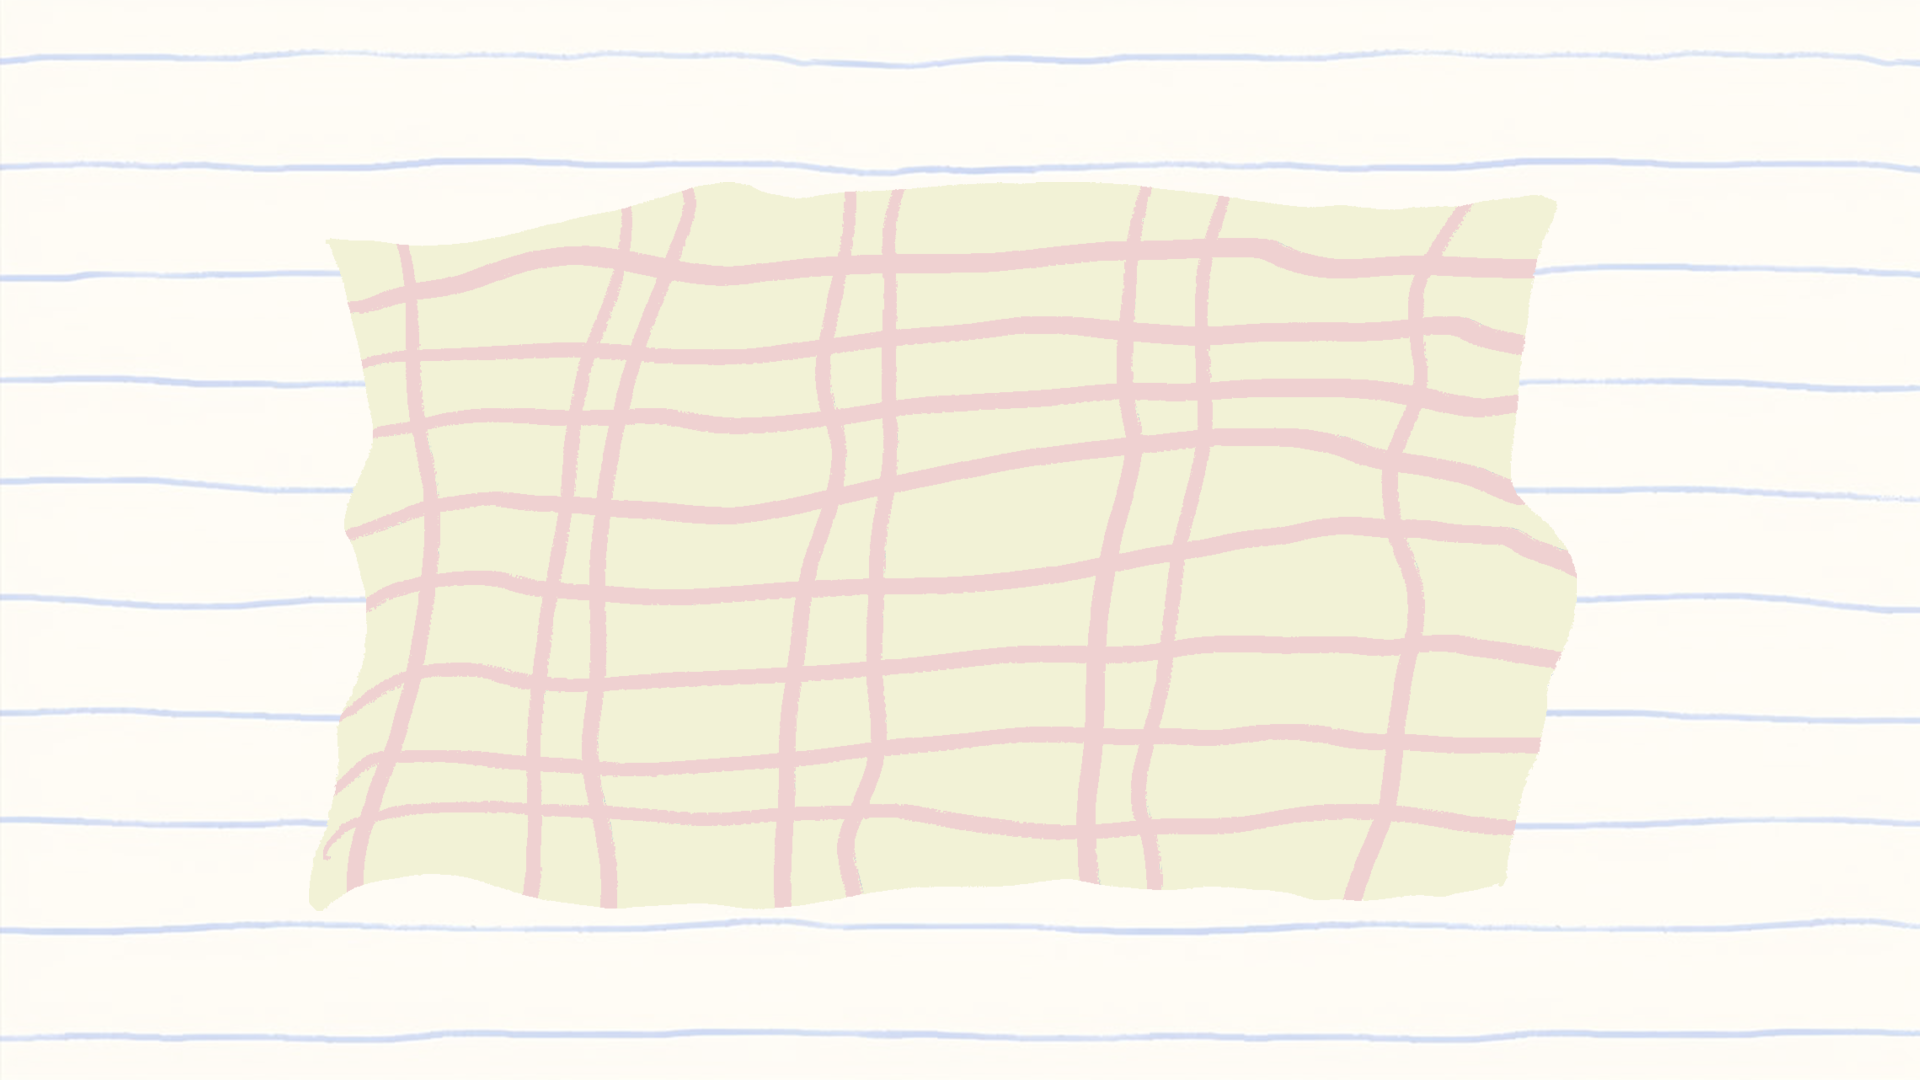
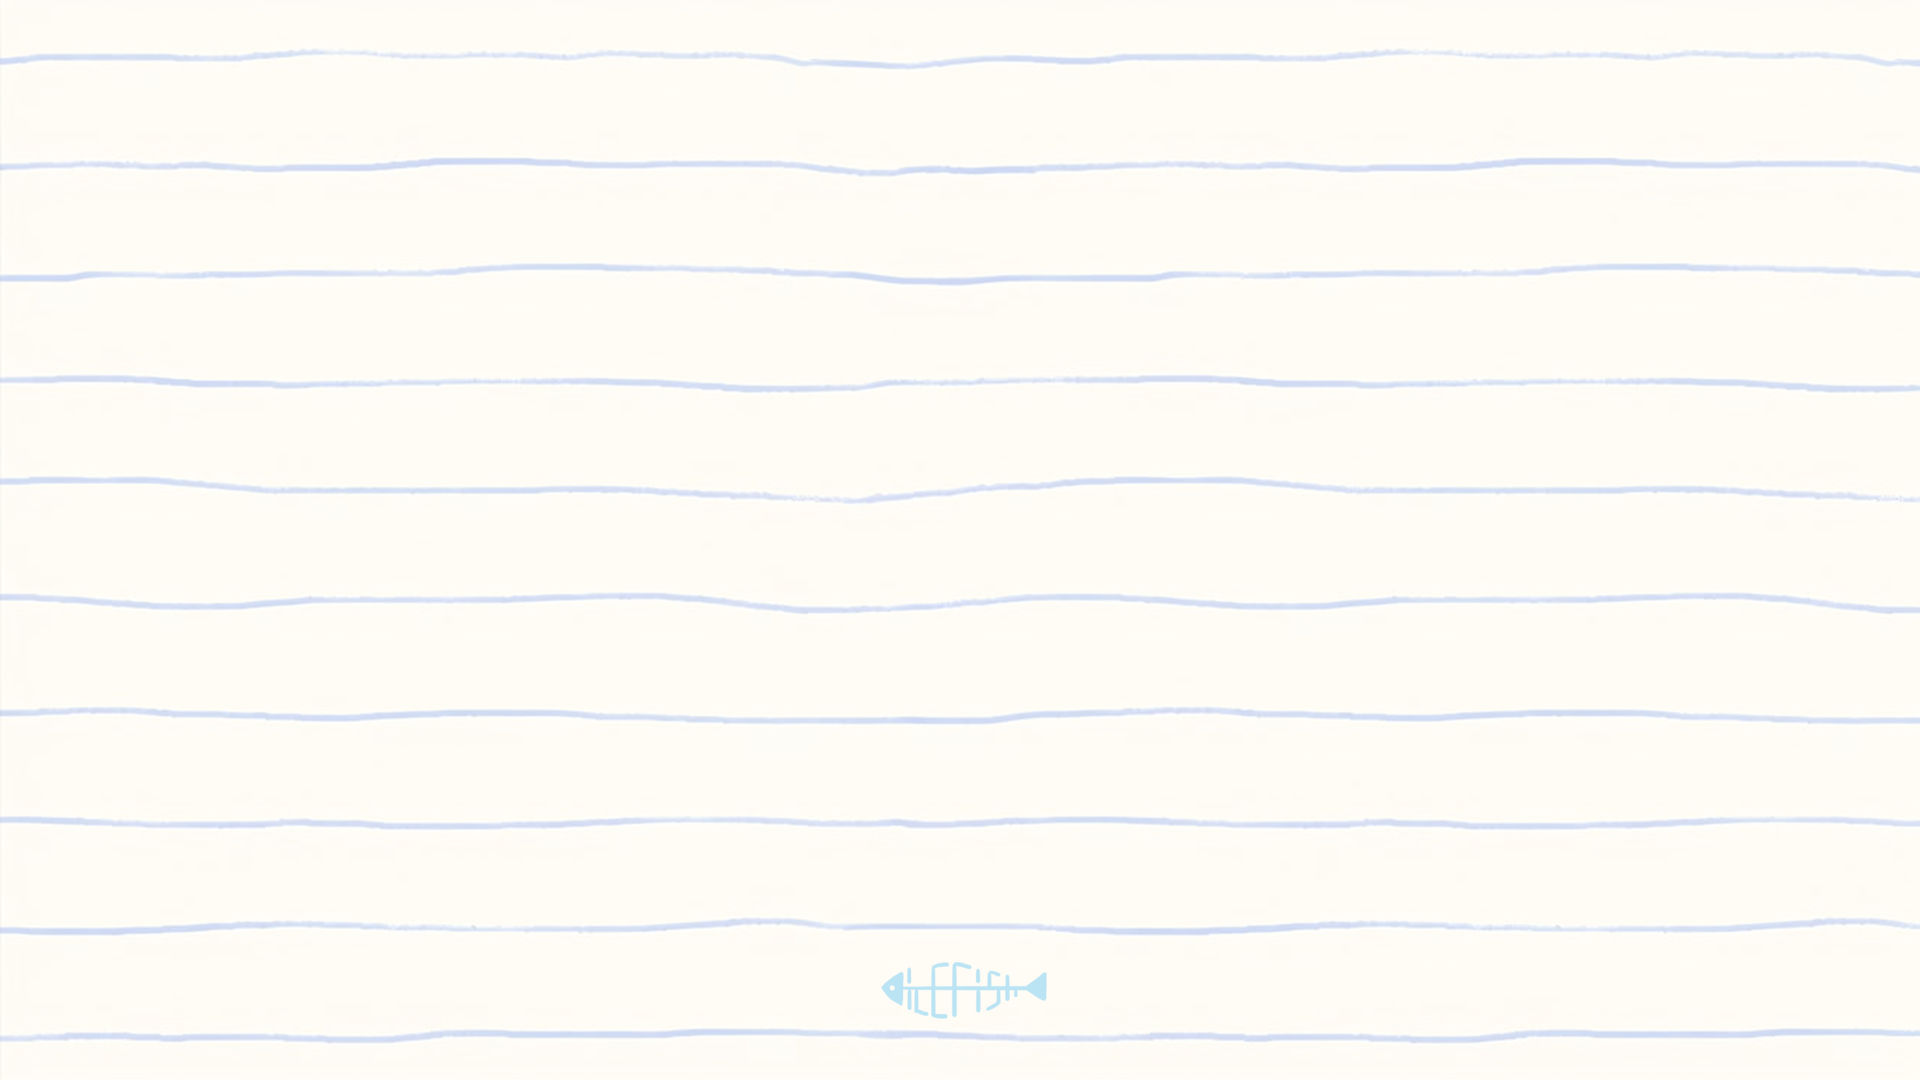
change background
change background and works background

diff --git a/index.html b/index.html
@@ -93,7 +93,7 @@
 
             position: absolute;
 
-            color: #8ea6b5;
+            color: #c2d9e7;
 
             opacity: 0;
 
@@ -165,14 +165,14 @@
             position: absolute;
 
 
-            width: 40vw;
+            width: 33vw;
 
             max-width: 700px;
 
 
             left: 50%;
 
-            top: 50%;
+            top: 45%;
 
 
             transform:
@@ -301,13 +301,13 @@
         .apple {
 
 
-            width: 220px;
+            width: 200px;
 
 
             left: 18%;
 
 
-            top: 65%;
+            top: 60%;
 
 
             animation:
@@ -394,13 +394,13 @@
         .butterfly {
 
 
-            width: 230px;
+            width: 210px;
 
 
             right: 25%;
 
 
-            top: 20%;
+            top: 13%;
 
 
             animation:
